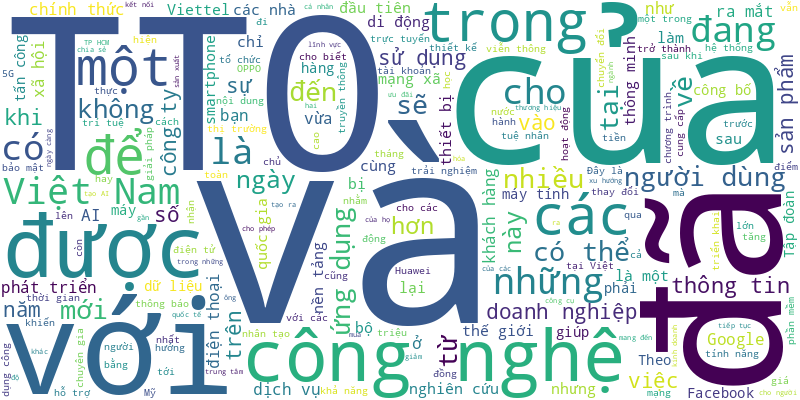
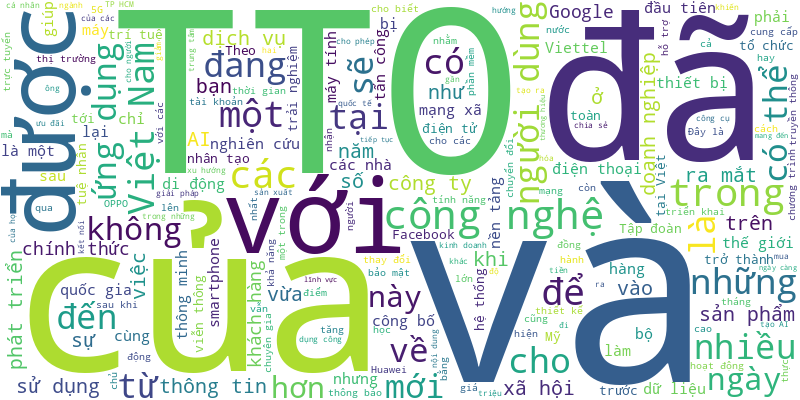
🍀 = 10%

diff --git a/README.md b/README.md
@@ -1,6 +1,8 @@
 # Tuoi Tre RSS 
 
 ## Giáo dục 
+- Khi kinh tế toàn cầu đang thay đổi nhanh chóng cùng sự phát triển của công nghệ, AI, hầu hết lĩnh vực nghề nghiệp đều phải linh hoạt cải tiến để thích ứng.
+- Lần đầu đến Việt Nam giảng dạy, cô Hong Ha Young (người Hàn Quốc) được sinh viên mời về quê ở Bình Thuận đón Tết Nguyên đán cùng với gia đình.
 - Sau 4 năm khuyết chức vụ hiệu trưởng, Trường đại học Sư phạm kỹ thuật TP.HCM vừa có hiệu trưởng được Bộ Giáo dục và Đào tạo công nhận.
 - Theo đó, các giáo viên vui mừng, phấn khởi khi vừa được nhận tiền thưởng vào dịp Tết, với số tiền lớn theo nghị định 73 của Chính phủ.
 - Đoàn Thành Nhân, lớp 10 chuyên tin Trường Phổ thông Năng khiếu, tặng tiền thưởng của mình cho các em học sinh trường cũ.
@@ -999,10 +1001,42 @@
 - Sau một ngày ra quân cao điểm xử lý học sinh vi phạm, cảnh sát giao thông toàn TP.HCM đã xử phạt 296 em vi phạm.
 - Mạng xã hội lan truyền bài viết, kèm hình ảnh một nam sinh có hành động thân mật với một cô gái tại bàn giáo viên và cho rằng cô gái trong clip là giáo viên.
 - Ngoài khu đô thị Đại học Quốc gia TP.HCM đã hoạt động, TP.HCM còn có ba dự án khu đô thị đại học và giáo dục tập trung.
-- Liên quan vụ việc phụ huynh xông vào trường đánh học sinh lớp 8, nhà trường đã kỷ luật 3 học sinh tham gia đánh nhau.
-- Kết quả điều tra gian lận khoa học về một giáo sư y khoa nổi tiếng của Đại học California tại San Diego (UCSD, Mỹ) đang gây rúng động giới y khoa toàn cầu.
 ![Edu](Edu.png)
 ## Thời Sự 
+- Phần trình diễn ánh sáng bằng drone trong chương trình nghệ thuật "Rực rỡ Thăng Long" bị dừng để đảm bảo sự thành công của chương trình.
+- Hôm nay 28-1 (29 Tết), không khí lạnh đã tràn tới phương Nam, thời tiết cả nước bị chi phối bởi hình thái này.
+- Chiều 28 Tết, bí thư Tỉnh ủy Quảng Ngãi đến công trường cao tốc Quảng Ngãi - Hoài Nhơn thăm hỏi, động viên những công nhân làm việc xuyên Tết.
+- Đường hoa nghệ thuật Cần Thơ chính thức mở cửa từ tối nay (27-1) và kéo dài đến mùng 6 Tết. Điểm nhấn của đường hoa là đôi rắn kết thành hình trái tim tình yêu.
+- Tối 27-1, Đường hoa Nguyễn Huệ tại trung tâm TP.HCM chính thức khai mạc, chào đón hàng ngàn lượt khách đến du xuân sớm.
+- Viện Kiểm sát nhân dân tỉnh Bắc Ninh vừa có thông tin về thủ đoạn của đường dây lừa đảo giả công an liên quan đến hơn 13.000 bị hại với số tiền gần 1.000 tỉ đồng.
+- Bệnh viện Bạch Mai (Hà Nội) vừa thông báo 23 bệnh nhi trong vụ ngộ độc do uống nhầm thuốc diệt chuột ở tỉnh Tuyên Quang đã được xuất viện.
+- Chiều tối 27-1 (28 Tết), Thủ tướng Phạm Minh Chính đã tới dâng hương cố Thủ tướng Chính phủ Phạm Văn Đồng và chúc Tết gia đình cố Thủ tướng tại Hà Nội.
+- Chiều 27-1 (tức 28 Tết), tại ga Hà Nội, Thủ tướng Chính phủ Phạm Minh Chính chúc Tết, kiểm tra công tác ứng trực phục vụ hành khách dịp Tết.
+- Bộ Công an đang lấy ý kiến các cơ quan, tổ chức, cá nhân về dự thảo quyết định của Thủ tướng ban hành danh mục dữ liệu quan trọng, dữ liệu cốt lõi.
+- Với lỗi điều khiển ô tô đi ngược chiều tại đoạn đường một chiều (đường dẫn vào cao tốc Mai Sơn - quốc lộ 45), tài xế T.Đ.T. bị phạt 19 triệu đồng và trừ 4 điểm bằng lái.
+- Ngày 27-1, tức 28 tháng chạp - ngày thứ 3 của kỳ nghỉ Tết Nguyên đán Ất Tỵ, toàn quốc xảy ra 52 vụ tai nạn giao thông, làm thiệt mạng 26 người, bị thương 36 người. Trong số vụ vi phạm giao thông, vi phạm nồng độ cồn và tốc độ vẫn còn cao.
+- Trước thềm Tết Ất Tỵ 2025, Phó bí thư Thành ủy TP.HCM Nguyễn Phước Lộc đã đến thăm Hiệp sĩ Đại thánh giá Lê Đức Thịnh, GS.BS Nguyễn Thị Ngọc Phượng, nhà nghiên cứu Nguyễn Đình Tư, linh mục Giuse Đào Nguyên Vũ.
+- Lãnh đạo Công an tỉnh Phú Yên cho hay vừa ra quyết định khởi tố vụ án, khởi tố bị can đối với Triệu Văn Hương (39 tuổi, trú thôn Chư Blôi, xã Ea Bar, huyện Sông Hinh) về tội tàng trữ trái phép vũ khí quân dụng.
+- Lịch vận hành sàn nhạc nước ở quảng trường 29-3 Đà Nẵng như thế nào là điều nhiều người dân và du khách quan tâm.
+- Cận Tết, sân bay Tân Sơn Nhất (TP.HCM) trở nên quá tải, không ít người đã rơi vào tình trạng mệt mỏi khi đến nơi mới biết chuyến bay bị lùi giờ.
+- Nhiều xe máy khi đổ đèo Hải Vân đã bị trượt ngã, có trường hợp bị gãy ngón tay do vệt dầu loang trên đường.
+- Bộ Giao thông vận tải được giao chủ trì nghiên cứu kiến nghị đầu tư mở rộng tuyến đường kết nối  Bình Phước với Đồng Nai qua cầu Mã Đà.
+- Trong lúc băng qua đường sắt đoạn qua thôn Liên Trì 2 (xã Bình Kiến, TP Tuy Hòa, (Phú Yên), người đàn ông bị tàu hỏa tông tử vong.
+- Thủ tướng yêu cầu tuyệt đối không để xảy ra tình trạng người dân ốm vì rét mà không tiếp cận được dịch vụ y tế và chữa trị.
+- Hàng ngàn công nhân tại nhiều tỉnh thành đăng ký đi làm dịp nghỉ Tết Nguyên đán 2025 có thể nhận hơn 300% tiền lương so với ngày thường.
+- Ngày 26 đến 27-1, tại thành phố Phú Quốc (tỉnh Kiên Giang), Bộ tư lệnh  Vùng Cảnh sát biển 4 tổ chức hội thi bánh chưng xanh nhân dịp Tết Nguyên đán Ất Tỵ 2025.
+- Theo đại diện các bến xe tại TP.HCM, Tết năm nay lượng khách tăng đều hơn các năm trước đó, thậm chí vượt kế hoạch đề ra.
+- Sáng 27-1, Thủ tướng Phạm Minh Chính tới thăm, kiểm tra công tác ứng trực và chúc Tết cán bộ, chiến sĩ một số đơn vị công an, quân đội.
+- Các công đoạn kiểm tra cuối của Đường hoa Nguyễn Huệ đang được gấp rút thực hiện để đường hoa sẵn sàng mở cửa đón người dân thành phố và du khách tối nay.
+- Nhiều ngày qua, người dân TP Hà Tiên không có hoặc có rất ít nước sạch vào những ngày giáp Tết.
+- Hai cơ sở giết mổ lợn ở Thái Bình đã mua lợn nhiễm dịch bệnh về giết mổ bán cho người dân.
+- Tỉnh Bắc Ninh vừa trao thưởng nóng cho các tập thể triệt phá đường dây lừa đảo xuyên biên giới sử dụng công nghệ cao để lừa hơn 13.000 người.
+- Việc tiêu thụ quá nhiều thực phẩm giàu calo và đường có thể gây ra tình trạng tăng cân, vậy làm sao để kiểm soát calo những ngày Tết?
+- Đây là Tết Nguyên đán thứ ba liên tiếp, trụ sở UBND tỉnh Sóc Trăng được trang trí đẹp với nhiều tiểu cảnh bắt mắt để người dân vào tham quan, chụp hình.
+- Đường nối Trần Quốc Hoàn, đường Dương Quảng Hàm, cầu Bà Hom đã lần lượt được thông xe, giúp người dân có thêm sự lựa chọn đi lại dịp Tết.
+- Chiếc ô tô hiệu Toyota tông liên hoàn vào 2 xe máy rồi lao tiếp vào chiếc ô tô màu đỏ đi cùng chiều phía trước trước cổng chợ hoa Quảng An.
+- Vụ án mạng nghiêm trọng xảy ra tại huyện Diễn Châu, Nghệ An. Một đôi nam nữ bị người bạn cũ đâm chết trong đêm 27 Tết.
+- Mọi nẻo đường TP.HCM đã rộn ràng không khí Tết, công trường vành đai 3 đoạn qua TP Thủ Đức vẫn duy trì nhịp độ làm việc.
 - Bộ Nội vụ đã có tờ trình gửi Chính phủ đề xuất cơ cấu tổ chức của Chính phủ nhiệm kỳ 2021 - 2026 gồm 14 bộ và 3 cơ quan ngang bộ.
 - Năm 1975, tôi đang học tiếng Đức tại Đại học Ngoại ngữ Hà Nội để chuẩn bị đi học luật ở CHDC Đức. Sáng 30-4-1975, chúng tôi vào lớp học, tin quân giải phóng sắp vào đến Sài Gòn vang lên khắp phố phường Hà Nội.
 - Hôm nay 27-1 (28 tháng chạp), nhiệt độ Bắc Bộ xuống rất thấp, Trung Bộ mưa to, Nam Bộ thời tiết nhiều mây, có lúc mưa rào.
@@ -1970,40 +2004,6 @@
 - Thủ tướng Chính phủ vừa có quyết định bổ sung hai tuyến cao tốc vào quy hoạch là Quảng Ngãi - Kon Tum và Cà Mau - Đất Mũi.
 - Trong chuyến công tác tại TP.HCM, Thủ tướng Phạm Minh Chính đã rà soát, cho ý kiến tháo gỡ khó khăn, vướng mắc liên quan đến dự án tại TP.HCM.
 - Đồn biên phòng Vĩnh Điều (huyện Giang Thành, Kiên Giang) vừa bắt quả tang nam thanh niên vận chuyển trái phép hàng cấm khoảng 15kg pháo.
-- Thủ tướng cho biết đã đề nghị tỉ phú Phạm Nhật Vượng xây dựng một hệ thống tàu điện ngầm từ trung tâm TP.HCM đến huyện Cần Giờ.
-- Khoảng 6 tháng nay, anh Huỳnh Ngọc Cường thường kéo xe hút đinh, cũng như nhặt ve chai dọc trên quốc lộ 1 từ TP.HCM về Long An.
-- Bộ Giao thông vận tải đề nghị UBND TP.HCM, Long An, Tiền Giang sớm có ý kiến về bộ trước ngày 8-1 để báo cáo Thủ tướng.
-- Hai người nhận là phóng viên báo dọa viết bài phản ánh vi phạm rồi ép doanh nghiệp phải ký hợp đồng tuyên truyền quảng cáo từ 55-95 triệu đồng.
-- Bộ trưởng Phạm Thị Thanh Trà yêu cầu rà soát, tinh giản biên chế sau khi hoàn thành việc hợp nhất Bộ Lao động - Thương binh và Xã hội với Bộ Nội vụ.
-- Thủ tướng bày tỏ điều cần quan tâm nhất là việc thực hiện quy hoạch để ra của cải vật chất, người dân phải được hưởng lợi từ việc thực hiện quy hoạch.
-- Đại tá Nguyễn Đức Hải, giám đốc Công an tỉnh Quảng Trị, được điều động làm giám đốc Công an tỉnh Đồng Nai.
-- Cán bộ, công chức, viên chức, người lao động trên địa bàn tỉnh Bạc Liêu sẽ được lãnh lương tháng 2 trước Tết Nguyên đán Ất Tỵ 2025.
-- Khi chờ đèn đỏ có được rẽ phải hay không? Rẽ phải trong trường hợp nào sẽ không vi phạm luật giao thông?
-- Con trăn gấm dài khoảng 4m, ước nặng gần 100kg được phát hiện ở bìa rừng Rạch Vẹm, xã Gành Dầu, TP Phú Quốc.
-- UBND TP.HCM tổ chức hội nghị công bố quy hoạch TP.HCM thời kỳ 2021-2030, tầm nhìn đến năm 2050 với sự tham dự của Thủ tướng Phạm Minh Chính.
-- Sau sắp xếp, tinh gọn bộ máy, Kiên Giang dư 6 giám đốc sở và hàng chục trưởng phòng.
-- Liên tiếp những vụ hành hung do mâu thuẫn khi va chạm nhẹ trên đường, vì đâu nên nỗi?
-- Sau khi va quẹt giao thông, nạn nhân đã bị Lê Văn Hiền đánh đập tới tấp dẫn đến dập não phải đi cấp cứu tại bệnh viện và đã tử vong. Nghi phạm đánh người đầu thú và bị tạm giữ.
-- Sáng 4-1, Lực lượng vũ trang TP.HCM đã được phong tặng danh hiệu Anh hùng Lực lượng vũ trang nhân dân lần 3.
-- 0h12 ngày 4-1, trực thăng mang số hiệu VN-8620 thuộc Binh đoàn 18 (Bộ Quốc phòng) bay cấp cứu quân nhân được chẩn đoán viêm màng não, tiên lượng nặng từ đảo An Bang, đã hạ cánh an toàn xuống Bệnh viện Quân y 175, TP.HCM.
-- UBND tỉnh Bắc Ninh đề xuất chuyển đổi sân bay Gia Bình thành cảng hàng không công suất quy hoạch dự kiến từ 1 - 3 triệu hành khách/năm, dự phòng mở rộng công suất khoảng 5 triệu hành khách/năm.
-- Bực tức việc mẹ ngủ, không chuẩn bị đồ ăn sáng cho mình, Khanh dùng dao đâm chết mẹ rồi chờ trời tối kéo thi thể ném xuống sông phi tang.
-- Cơ sở sản xuất ván lạng ở Bình Phước bị xử phạt gần 60 triệu đồng do sử dụng lao động nước ngoài trái phép.
-- Đại diện đội cảnh sát giao thông - trật tự Công an TP Thủ Đức cho biết vẫn chưa mời được chủ xe Audi 'chạy đến đâu đèn tín hiệu loạn xạ đến đó' lên làm việc nên không rõ clip trên có cắt ghép hay không.
-- Thanh tra An Giang xác định hàng loạt vi phạm pháp luật về đầu tư công và dự án khu dân cư và chuyển hồ sơ sang công an để điều tra.
-- Tại dự thảo Luật Tổ chức Chính phủ (sửa đổi), Bộ Nội vụ đề xuất thiết kế theo hướng phân định và khái quát hóa các nhóm nhiệm vụ của Thủ tướng.
-- Thủ tướng Phạm Minh Chính yêu cầu các bộ ngành, địa phương không coi trung tâm tài chính là công việc của riêng TP.HCM và Đà Nẵng mà là việc chung của đất nước, toàn hệ thống phải cùng làm, cùng phát triển.
-- Nhiều chuyên gia khẳng định đây là thời điểm lý tưởng để đưa TP.HCM thành trung tâm tài chính toàn cầu. Tất nhiên, để thực hiện kế hoạch này còn nhiều việc phải làm.
-- TP.HCM đặt mục tiêu đến năm 2035 sẽ có 7 tuyến metro có chiều dài 355km. Bên cạnh cơ chế và chính sách đặc thù, cần thêm giải pháp giúp tối ưu hóa hiệu quả và giảm trở ngại trong quá trình xây dựng.
-- Không ít đoạn sông Đáy ở Hà Nội bị ô nhiễm cực độ, GS Vũ Trọng Hồng đề nghị lắp đặt ngay bơm thuyền để cứu dòng sông.
-- UBND tỉnh Khánh Hòa vừa có phương án sắp xếp các cơ quan trực thuộc, gồm có tên các sở sau khi hợp nhất và hướng sắp xếp nhân sự lãnh đạo các đơn vị sáp nhập, hợp nhất.
-- TP.HCM đang đứng trước cơ hội lịch sử để trở thành trung tâm tài chính quốc tế - một giấc mơ được ấp ủ hơn 20 năm với sự ủng hộ từ Bộ Chính trị, mở ra triển vọng mới cho sự phát triển kinh tế không chỉ của thành phố mà còn của cả Việt Nam.
-- Phòng cảnh sát giao thông Công an Hà Nội khẳng định thông tin 'thanh niên thu về 50 triệu đồng sau 1 ngày tố giác vi phạm giao thông' là sai sự thật.
-- Ngày 4-1, Thủ tướng Phạm Minh Chính dự lễ công bố xây dựng Trung tâm tài chính khu vực và quốc tế tại Việt Nam; công bố quy hoạch TP.HCM.
-- Tin tức đáng chú ý: Gần Tết số vụ lừa đảo trực tuyến tăng mạnh; Hà Nội nhiều nhà tái định cư hoang phế; TP.HCM tăng cường kiểm tra nhà ở kết hợp sản xuất kinh doanh...
-- Hôm nay 4-1, thời tiết Bắc Bộ ngày nắng, trời lạnh. Trung Bộ mưa rào, Nam Bộ có mây, mưa rào và dông vài nơi.
-- Tài xế N.V.Q. lái ô tô đi ngược chiều trên đường cao tốc Nội Bài - Lào Cai. Theo nghị định 168/2024, hành vi này bị xử phạt 35 triệu đồng, trừ 10 điểm giấy phép lái xe.
-- Cảnh sát lập biên bản vi phạm đối với tài xế ô tô biển xanh về hành vi chở người trên nóc xe. Mức phạt 4-6 triệu đồng và trừ 6 điểm bằng lái.
 ![New](News.png)
 ## Nhịp sống số 
 - Hiệp hội An ninh mạng quốc gia vừa công bố thành lập Liên minh ứng phó, khắc phục sự cố an ninh mạng quốc gia.
